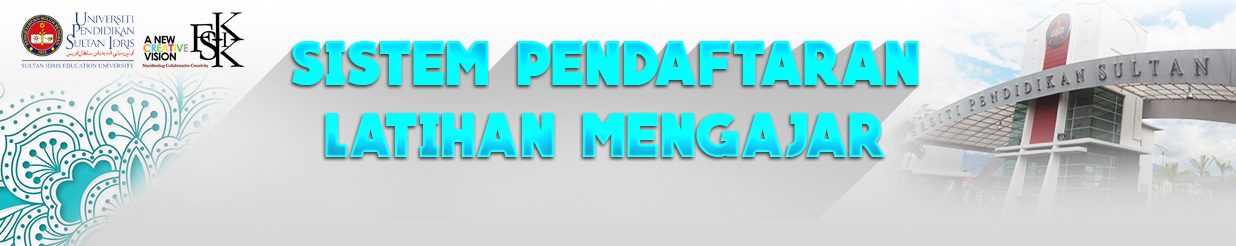
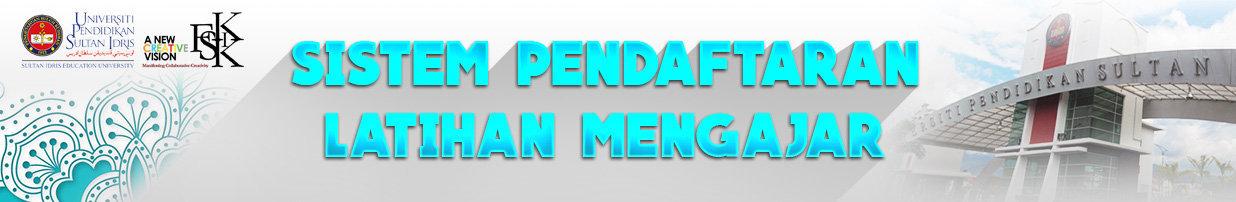
style.css

diff --git a/assets/plugins/nivo-slider/nivo-slider.css b/assets/plugins/nivo-slider/nivo-slider.css
@@ -8,7 +8,7 @@
  */
  
 /* The Nivo Slider styles */
-.slider-wrapper {width: 670px;}
+.slider-wrapper {width: 630px;}
 .nivoSlider {
 	position:relative;
 	width:100%;

diff --git a/assets/css/style.css b/assets/css/style.css
@@ -1,5 +1,5 @@
 #main-content{
-	margin-top: 30px;
+	margin-top: 0px;
 }
 
 .tab-pane > form{

diff --git a/action/index_authenticate.php b/action/index_authenticate.php
@@ -11,8 +11,6 @@ $bangsa = Student::bangsa();
 		</div>
 		<?php echo Component::menuBar(); ?>
 	</div>
-		
-	<br />
 	<div class="row">
 		<div class="col-md-9 col-sm-9 col-xs-12">
 			<h2>Selamat Datang ke <?php echo APPNAME; ?></h2>
